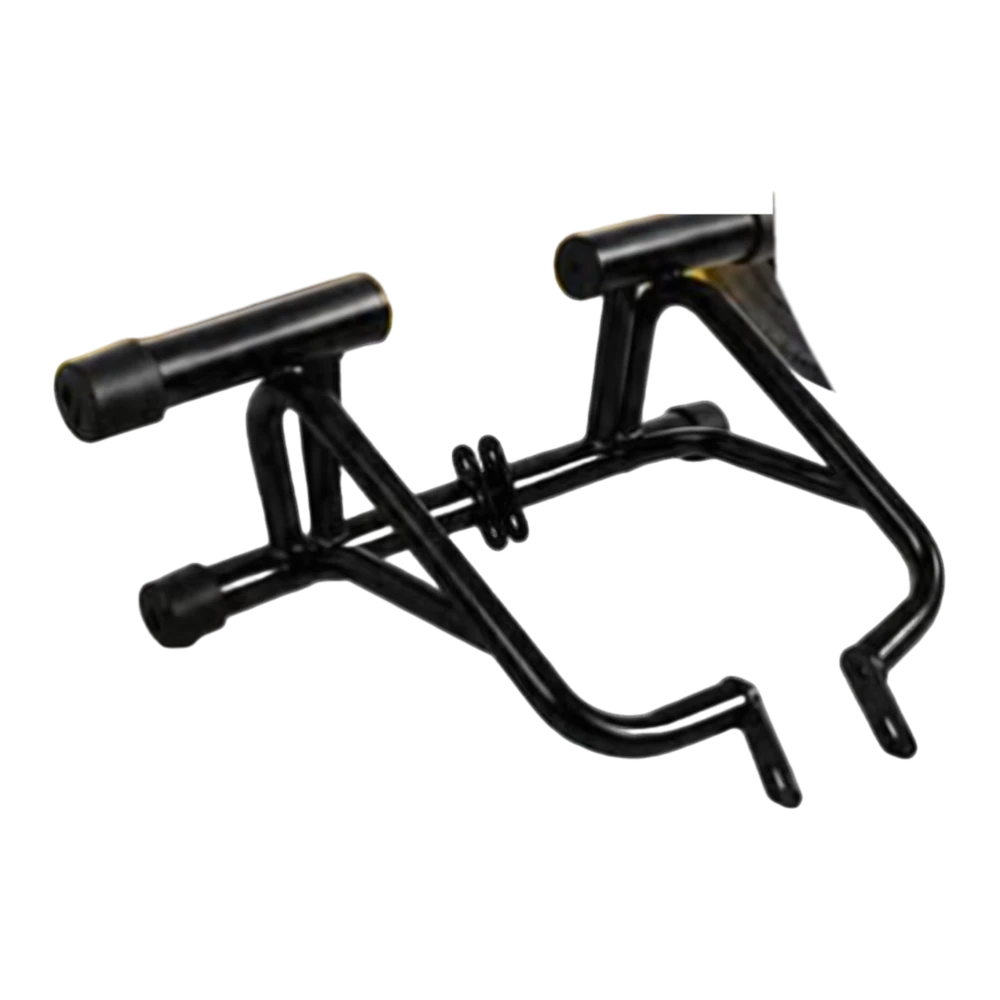
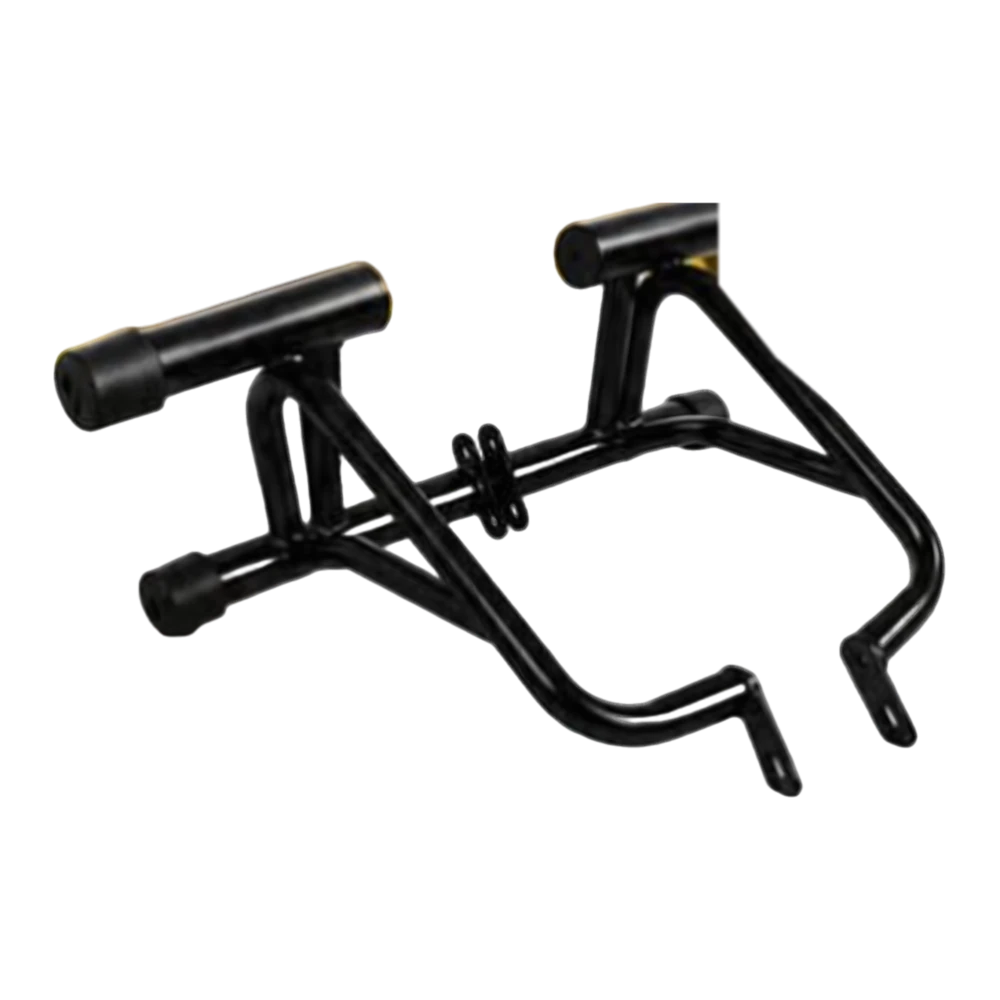
Matuto Motos: imagens finais da proposta, README e pendências
Gera os PNGs de todas as telas (loja 01–08 e painel 09–13, desktop e
mobile, estados extras e modais) e as imagens de apresentação (capa,
telas mobile e painel do lojista). Inclui os ajustes da revisão,
o README com instruções e a lista final de pendências.

Claude-Session: https://claude.ai/code/session_01JWdUiM91EVC8pcNemr4DTy

Changed region(s): [[0.031, 0.186, 0.961, 0.806], [0.527, 0.248, 0.558, 0.279]]

diff --git a/propostas/matuto-motos/prototipo/assets/css/loja.css b/propostas/matuto-motos/prototipo/assets/css/loja.css
@@ -234,6 +234,7 @@
 .cp-info { padding: 12px 14px 14px; display: flex; flex-direction: column; gap: 3px; flex: 1; }
 .cp-compat { font-size: 12px; color: var(--texto-3); font-weight: 550; display: flex; gap: 5px; align-items: center; white-space: nowrap; overflow: hidden; text-overflow: ellipsis; }
 .cp-compat .ic { width: 14px; height: 14px; flex: none; }
+.cp-compat > span { overflow: hidden; text-overflow: ellipsis; white-space: nowrap; min-width: 0; }
 .cp-nome { font-size: 14px; font-weight: 550; line-height: 1.36; display: -webkit-box; -webkit-line-clamp: 2; -webkit-box-orient: vertical; overflow: hidden; min-height: 38px; }
 .cp-aval { display: flex; align-items: center; gap: 5px; font-size: 12px; color: var(--texto-3); }
 .cp-preco { margin-top: 8px; display: flex; flex-direction: column; min-height: 47px; justify-content: flex-end; }
@@ -276,6 +277,9 @@
 .ret-loja { background: #fff; color: var(--texto); border-radius: 18px; overflow: hidden; box-shadow: 0 24px 50px -24px rgba(0, 0, 0, .8); }
 .ret-foto { position: relative; height: 230px; }
 .ret-foto img { width: 100%; height: 100%; object-fit: cover; object-position: 50% 28%; }
+.ret-foto.duo { display: grid; grid-template-columns: 1fr 1fr; grid-template-rows: minmax(0, 1fr); gap: 3px; height: 280px; background: #fff; overflow: hidden; }
+.ret-foto.duo img { min-height: 0; }
+.ret-foto.duo img { object-position: 50% 22%; }
 .ret-foto .selo-tag { position: absolute; left: 16px; bottom: 14px; background: var(--amarelo); color: var(--preto); height: 30px; font-size: 13px; }
 .ret-info { padding: 20px 22px 22px; display: flex; flex-direction: column; gap: 12px; }
 .ret-info h3 { font-family: var(--f-titulo); font-weight: 800; text-transform: uppercase; font-size: 26px; line-height: 1; }
@@ -311,7 +315,7 @@
 .of-botoes { display: flex; gap: 12px; margin-top: 6px; align-items: center; }
 .of-botoes small { font-size: 12.5px; max-width: 220px; line-height: 1.35; }
 .of-foto { position: relative; clip-path: polygon(14% 0, 100% 0, 100% 100%, 0 100%); min-height: 320px; }
-.of-foto img { position: absolute; inset: 0; width: 100%; height: 100%; object-fit: cover; object-position: 50% 40%; }
+.of-foto img { position: absolute; inset: 0; width: 100%; height: 100%; object-fit: cover; object-position: 50% 6%; }
 .of-foto .selo-tag { position: absolute; right: 18px; bottom: 18px; background: var(--preto); color: #fff; height: 32px; padding: 0 12px; font-size: 13px; }
 
 /* ---------- Instagram ---------- */
@@ -402,6 +406,7 @@
 .listagem { display: grid; grid-template-columns: 272px minmax(0, 1fr); gap: 26px; align-items: start; }
 .filtros { background: #fff; border: 1px solid var(--borda); border-radius: 16px; padding: 6px 18px 18px; position: sticky; top: 16px; }
 .filtros-topo { display: none; }
+.filtros-acoes { display: none; }
 .f-bloco { padding: 16px 0; border-bottom: 1px solid var(--borda); }
 .f-bloco:last-of-type { border-bottom: 0; }
 .f-tit { display: flex; justify-content: space-between; align-items: center; font-family: var(--f-titulo); font-weight: 800; font-size: 17px; text-transform: uppercase; letter-spacing: .03em; margin-bottom: 10px; }
@@ -793,6 +798,9 @@
 .cf-chips .ic { width: 18px; height: 18px; color: var(--amarelo); }
 .cf-foto { position: relative; min-height: 360px; }
 .cf-foto img { position: absolute; inset: 0; width: 100%; height: 100%; object-fit: cover; object-position: 50% 25%; }
+.cf-foto.duo { display: grid; grid-template-columns: 1fr 1fr; gap: 4px; background: var(--preto); }
+.cf-foto.duo > div:not(.cf-balao) { position: relative; overflow: hidden; }
+.cf-foto.duo > div:not(.cf-balao) img { position: absolute; inset: 0; width: 100%; height: 100%; object-fit: cover; object-position: 50% 15%; }
 .cf-foto::before { content: ''; position: absolute; inset: 0; background: linear-gradient(90deg, var(--preto) 0%, rgba(17, 17, 17, 0) 30%); z-index: 1; }
 .cf-balao { position: absolute; left: 0; bottom: 40px; z-index: 2; background: #fff; color: var(--texto); border-radius: 16px 16px 16px 4px; padding: 12px 16px; box-shadow: var(--sombra-forte); max-width: 270px; font-size: 13.5px; }
 .cf-balao b { display: flex; align-items: center; gap: 6px; font-size: 13px; color: var(--zap-escuro); }
@@ -989,6 +997,7 @@
   .passo p { margin-top: 4px; }
   .passo .ic { top: 16px; right: 14px; width: 26px; height: 26px; }
   .ret-foto { height: 200px; }
+  .ret-foto.duo { height: 230px; }
 
   .marcas { grid-template-columns: repeat(3, minmax(0, 1fr)); gap: 8px; }
   .marca { height: 70px; border-radius: 12px; }
@@ -1074,8 +1083,8 @@
   .pr-corpo { grid-template-columns: 1fr; }
   .pr-aviso { display: grid; grid-template-columns: auto 1fr; gap: 4px 8px; }
   .pr-aviso a { grid-column: 2; margin-left: 0; }
-  .serve { flex-wrap: wrap; gap: 6px 10px; }
-  .serve a { margin-left: 36px; width: 100%; }
+  .serve { display: grid; grid-template-columns: auto minmax(0, 1fr); gap: 4px 10px; align-items: start; }
+  .serve a { grid-column: 2; margin-left: 0; justify-self: start; }
   .p-confianca { grid-template-columns: 1fr; }
   .p-detalhes { grid-template-columns: 1fr; margin-top: 28px; gap: 16px; }
   .bloco { padding: 20px 18px; border-radius: 16px; }
@@ -1098,7 +1107,11 @@
   /* carrinho */
   .pagina-tit { padding: 8px 0 14px; flex-direction: column; align-items: flex-start; gap: 4px; }
   .pagina-tit h1 { font-size: 36px; }
-  .carrinho { grid-template-columns: 1fr; gap: 16px; }
+  .carrinho { grid-template-columns: minmax(0, 1fr); gap: 16px; }
+  .carrinho > div:first-child { display: contents; }
+  .carrinho .itens { order: 1; }
+  .carrinho .resumo { order: 2; }
+  .carrinho .cross { order: 3; margin-top: 8px; }
   .itens-cab { display: none; }
   .item { grid-template-columns: 84px minmax(0, 1fr); gap: 4px 12px; padding: 14px; align-items: start; }
   .item-prod { display: contents; }
@@ -1170,9 +1183,10 @@
   .tl.compacta { margin: 0 16px 16px; }
   .pd-itens { padding: 0 16px 16px; }
   .pd-itens .btn { width: 100%; margin-left: 0; margin-top: 6px; }
-  .lp-item { grid-template-columns: minmax(0, 1fr) auto; gap: 8px; padding: 14px 16px; }
+  .lp-item { grid-template-columns: minmax(0, 1fr) auto; gap: 6px 10px; padding: 14px 16px; }
   .lp-imgs { grid-column: 1 / -1; order: 3; }
-  .lp-item .lp-total { text-align: right; }
+  .lp-item .lp-total { grid-column: 1 / -1; order: 2; text-align: left; display: flex; flex-direction: column; }
+  .lp-item .lp-total b { font-size: 15px; }
   .lp-item .lp-seta { display: none; }
   .conta-duas { grid-template-columns: 1fr; }
   .favs { grid-template-columns: 1fr; }
@@ -1182,9 +1196,11 @@
   .cf-txt { padding: 28px 20px 24px; }
   .cf-txt h1 { font-size: 42px; }
   .cf-txt p { font-size: 15px; }
-  .cf-foto { height: 300px; }
+  .cf-foto { height: 300px; min-height: 0; }
   .cf-foto::before { background: linear-gradient(180deg, var(--preto) 0%, rgba(17, 17, 17, 0) 30%); }
-  .cf-balao { left: 16px; bottom: 32px; }
+  .cf-foto.duo > div:not(.cf-balao) { min-height: 0; }
+  .cf-balao { left: 16px; right: 16px; bottom: 30px; max-width: none; }
+  .cf-chips span { height: 34px; font-size: 13px; }
   .cf-passos { grid-template-columns: 1fr; gap: 10px; }
   .cf-duas { grid-template-columns: 1fr; }
   .faq details > div { padding: 0 16px 16px; }
@@ -1245,3 +1261,6 @@
 
 /* captura de página inteira: o botão do WhatsApp fica no fim, sem cobrir o texto do rodapé */
 html.captura .rod-base { padding-bottom: 104px; }
+
+/* estados abertos no celular: o botão flutuante do WhatsApp sai da frente */
+body.busca-aberta .zap-flutuante, body.menu-aberto .zap-flutuante, body.filtros-abertos .zap-flutuante { display: none; }

diff --git a/propostas/matuto-motos/prototipo/painel/produtos.html b/propostas/matuto-motos/prototipo/painel/produtos.html
@@ -94,21 +94,20 @@
     '<td><div class="acoes-lin"><a class="ic-btn" href="produto-editar.html" title="Editar">' + I('edit') + '</a><span class="ic-btn" title="Duplicar">' + I('copy') + '</span><span class="ic-btn" title="' + (p.status === 'ativo' ? 'Desativar' : 'Ativar') + '">' + I(p.status === 'ativo' ? 'eyeOff' : 'eye') + '</span></div></td></tr>').join('');
   document.getElementById('cards').innerHTML = lista.slice(0, 8).map((p) =>
     '<div class="cm"><div class="cm-topo">' + P.thumb(p) + '<div><b>' + p.nome.split(' — ')[0] + '</b><small>Cód. ' + p.cod + ' · ' + P.catDe(p.cat).nome + '</small></div><span class="ic-btn">' + I('dots') + '</span></div>' +
-    '<div class="cm-info"><div><small>Preço</small><b>' + P.fmt(P.valor(p)) + '</b></div><div><small>Disponível</small><b>' + p.disponivel + '</b>' + (p.reservado ? ' <span class="fraco" style="font-size:11px">+' + p.reservado + ' res.</span>' : '') + '</div><div><small>Status</small>' + (p.status === 'rascunho' ? '<b>Rascunho</b>' : p.estoque === 0 ? '<b style="color:var(--vermelho-escuro)">Sem estoque</b>' : p.situacao === 'baixo' ? '<b style="color:#8A4B00">Baixo</b>' : '<b style="color:var(--verde)">Ativo</b>') + '</div></div></div>').join('');
-  document.getElementById('pag-txt').textContent = 'Mostrando 1–15 de ' + M.produtos.length + ' produtos';
+    '<div class="cm-info"><div><small>Preço</small><b>' + P.fmt(P.valor(p)) + '</b></div><div><small>Disponível</small><b>' + p.disponivel + '</b>' + (p.reservado ? ' <span class="fraco" style="font-size:11px">+' + p.reservado + ' res.</span>' : '') + '</div><div><small>Status</small>' + (p.status === 'rascunho' ? '<b>Rascunho</b>' : p.estoque === 0 ? '<b style="color:var(--vermelho-escuro)">Zerado</b>' : p.situacao === 'baixo' ? '<b style="color:#8A4B00">Baixo</b>' : '<b style="color:var(--verde)">Ativo</b>') + '</div></div></div>').join('');
+  document.getElementById('pag-txt').innerHTML = 'Mostrando 1–<span class="so-desk">15</span><span class="so-mob">8</span> de ' + M.produtos.length + ' produtos';
 
   /* modal importar */
   document.getElementById('mi-ic').innerHTML = I('sheet');
   document.getElementById('mi-x').innerHTML = I('close');
   document.getElementById('mi-passos').innerHTML =
-    '<div class="passo-imp"><i>' + I('check') + '</i><div><b>Baixe o modelo</b>Planilha com as colunas certas</div></div>' +
+    '<div class="passo-imp"><i>' + I('check') + '</i><div><b>Baixe o modelo</b>Colunas já prontas</div></div>' +
     '<div class="passo-imp"><i>' + I('check') + '</i><div><b>Envie o arquivo</b>.xlsx ou .csv, até 2.000 linhas</div></div>' +
     '<div class="passo-imp atual"><i>3</i><div><b>Confira e importe</b>Veja o resumo antes de salvar</div></div>';
   document.getElementById('mi-arq').innerHTML = '<span class="xls">XLS</span><div style="flex:1"><b>produtos-matuto-novembro.xlsx</b><small>128 linhas · 46 KB · enviado agora</small></div><button class="btn btn-claro btn-pp" type="button">Trocar arquivo</button>';
   const prev = [
     ['2', 'RD-0108', 'Jogo de rodas liga leve Fan 160 — disco nas duas', 'R$ 799,00', '4', '<span class="st st-ok">Novo</span>'],
     ['3', 'PR-0401', 'Protetor de motor Titan 160', 'R$ 125,00', '+10', '<span class="st st-aguard">Atualizar</span>'],
-    ['4', 'TR-0207', 'Kit relação Fazer 250 aço 1045', 'R$ 89,90', '12', '<span class="st st-ok">Novo</span>'],
     ['5', 'IL-1102', 'Lâmpada pisca LED 12V (par)', 'R$ 14,90', '30', '<span class="st st-baixo">Sem foto</span>'],
     ['57', 'SP-0310', 'Amortecedor dianteiro Pop 110i', '—', '6', '<span class="st st-zero">Erro: preço vazio</span>'],
   ];

diff --git a/propostas/matuto-motos/prototipo/assets/css/painel.css b/propostas/matuto-motos/prototipo/assets/css/painel.css
@@ -268,7 +268,7 @@ body.painel { background: #F4F3EF; font-size: 14px; color: var(--texto); }
 .hist-cab .thumb { width: 40px; height: 40px; }
 
 /* modal */
-.modal-fundo { position: fixed; inset: 0; background: rgba(17, 17, 17, .55); z-index: 80; display: none; align-items: flex-start; justify-content: center; padding: 56px 20px; overflow: auto; }
+.modal-fundo { position: fixed; inset: 0; background: rgba(17, 17, 17, .55); z-index: 80; display: none; align-items: flex-start; justify-content: center; padding: 34px 20px; overflow: auto; }
 body.modal-aberto .modal-fundo { display: flex; }
 .modal { background: #fff; border-radius: 18px; width: 100%; max-width: 760px; box-shadow: 0 30px 80px -20px rgba(0, 0, 0, .5); overflow: hidden; }
 .modal-cab { display: flex; align-items: center; gap: 12px; padding: 18px 22px; border-bottom: 1px solid var(--borda); }
@@ -282,7 +282,7 @@ body.modal-aberto .modal-fundo { display: flex; }
 .modal-rodape .tot b { font-size: 20px; color: var(--texto); font-variant-numeric: tabular-nums; }
 .itens-ent .input { height: 38px; font-size: 13.5px; text-align: right; font-variant-numeric: tabular-nums; }
 .passos-imp { display: grid; grid-template-columns: repeat(3, 1fr); gap: 10px; }
-.passo-imp { display: flex; gap: 10px; align-items: center; padding: 12px; border-radius: 12px; border: 1px solid var(--borda); font-size: 13px; }
+.passo-imp { display: flex; gap: 10px; align-items: center; padding: 10px 12px; border-radius: 12px; border: 1px solid var(--borda); font-size: 13px; line-height: 1.35; }
 .passo-imp i { width: 28px; height: 28px; border-radius: 50%; background: var(--verde); color: #fff; display: flex; align-items: center; justify-content: center; font-style: normal; font-weight: 800; flex: none; }
 .passo-imp i .ic { width: 15px; height: 15px; stroke-width: 2.6; }
 .passo-imp.atual { border-color: var(--preto); box-shadow: 0 0 0 2px var(--amarelo); }
@@ -320,6 +320,7 @@ body.modal-aberto .modal-fundo { display: flex; }
   .tb-mobile .tbm-acoes span { width: 40px; height: 40px; border-radius: 10px; display: flex; align-items: center; justify-content: center; position: relative; }
   .tb-mobile .tbm-acoes .dot { position: absolute; top: 8px; right: 9px; width: 8px; height: 8px; border-radius: 50%; background: var(--vermelho); border: 2px solid var(--preto); }
   .conteudo { padding: 16px 14px 100px; gap: 14px; }
+  body:has(.fab-scan) .conteudo { padding-bottom: 156px; }
   .pg-topo { flex-direction: column; align-items: stretch; gap: 12px; }
   .pg-topo h1 { font-size: 30px; }
   .pg-acoes .btn { flex: 1; min-width: 0; padding: 0 12px; }
@@ -347,6 +348,7 @@ body.modal-aberto .modal-fundo { display: flex; }
   .cm-topo { display: flex; align-items: flex-start; gap: 12px; }
   .cm-topo .thumb { width: 56px; height: 56px; }
   .cm-topo > div { flex: 1; min-width: 0; }
+  .cm-topo > .thumbs { flex: none; }
   .cm-topo b { display: block; font-weight: 650; line-height: 1.3; }
   .cm-topo small { color: var(--texto-3); font-size: 12px; }
   .cm-info { display: grid; grid-template-columns: repeat(3, minmax(0, 1fr)); gap: 8px; }

diff --git a/propostas/matuto-motos/prototipo/assets/js/dados.js b/propostas/matuto-motos/prototipo/assets/js/dados.js
@@ -106,7 +106,7 @@
     p({ id: 'kit-riffel', cat: 'transmissao', marca: 'Riffel', nome: 'Kit relação Riffel Titanium aço 1045 — coroa, pinhão e corrente',
       cod: 'TR-0203', codFab: 'RIFFEL-TITANIUM', ean: '789820420203', preco: 79.00, promo: 69.90,
       img: 'produtos/kit-riffel-caixa.webp', galeria: ['produtos/kit-riffel-caixa.webp', 'produtos/kit-riffel.webp', 'artes/arte-P1-20.jpg'],
-      motos: [['Honda', 'CG 160 Titan / Fan', '2016 a 2026'], ['Honda', 'NXR 160 Bros', '2015 a 2025'], ['Yamaha', 'Factor 150', '2016 a 2025'], ['Yamaha', 'Fazer 150', '2014 a 2022']], compat: 'Vários modelos — escolha a moto',
+      motos: [['Honda', 'CG 160 Titan / Fan', '2016 a 2026'], ['Honda', 'NXR 160 Bros', '2015 a 2025'], ['Yamaha', 'Factor 150', '2016 a 2025'], ['Yamaha', 'Fazer 150', '2014 a 2022']], compat: 'Titan, Bros, Factor e Fazer',
       estoque: 12, reservado: 0, minimo: 6, local: 'C1-3', custo: 44, atacado: 62.9, vendidos: 98, aval: 4.9, navals: 41, fonte: 'P1-20, P1-44' }),
     p({ id: 'kit-relacao-bros-xre', cat: 'transmissao', nome: 'Kit relação Bros 160 / XRE 190 aço 1045',
       cod: 'TR-0202', codFab: 'KR-B160-1045', ean: '789820420202', preco: 75.00, promo: 54.90,
@@ -248,7 +248,7 @@
       img: 'produtos/capacete-preto.webp', galeria: ['produtos/capacete-preto.webp', 'videos/story-capacete.jpg'],
       cores: [['Preto', 'capacete-preto', '#111'], ['Amarelo', 'capacete-amarelo', '#F4C400'], ['Branco', 'capacete-branco', '#F1F1F1'], ['Azul', 'capacete-azul', '#1D3FBF'],
         ['Grafite', 'capacete-grafite', '#3A3A3A'], ['Prata', 'capacete-prata', '#B9BCC0'], ['Vermelho', 'capacete-vermelho', '#C8141B'], ['Rosa', 'capacete-rosa', '#E0218A']],
-      motos: [], compat: 'Tamanhos 56 a 60 · certificado INMETRO',
+      motos: [], compat: 'Tamanhos 56 a 60 · INMETRO',
       estoque: 16, reservado: 1, minimo: 6, local: 'J1-1', custo: 54, atacado: 89, vendidos: 95, aval: 4.8, navals: 27, fonte: 'P1-09' }),
 
     /* ---------------- Exemplos sem foto (outras categorias) ---------------- */

diff --git a/propostas/matuto-motos/prototipo/assets/js/loja.js b/propostas/matuto-motos/prototipo/assets/js/loja.js
@@ -34,7 +34,7 @@
   /* ---------- cabeçalho ---------- */
   function buscaHTML(id) {
     return '<form class="busca-form" role="search" action="' + BASE + 'categoria.html">' +
-      '<input id="' + id + '" name="q" type="search" autocomplete="off" placeholder="Busque por peça, código ou moto (ex.: protetor Titan 160)" aria-label="Buscar">' +
+      '<input id="' + id + '" name="q" type="search" autocomplete="off" placeholder="Busque por peça, código ou moto" aria-label="Buscar">' +
       '<button type="submit" aria-label="Buscar">' + I('search') + '</button></form>' +
       '<div class="sugestoes" role="listbox"></div>';
   }
@@ -153,7 +153,7 @@
       '</a>' +
       '<button class="cp-fav' + (M.cliente.favoritos.indexOf(p.id) >= 0 ? ' on' : '') + '" type="button" aria-label="Favoritar">' + I('heart') + '</button>' +
       '<div class="cp-info">' +
-        (p.compat ? '<span class="cp-compat">' + I('moto') + p.compat + '</span>' : '') +
+        (p.compat ? '<span class="cp-compat">' + I('moto') + '<span>' + p.compat + '</span></span>' : '') +
         '<a class="cp-nome" href="' + BASE + 'produto.html?id=' + p.id + '">' + p.nome + '</a>' +
         (p.aval ? '<span class="cp-aval">' + estrelas(p.aval) + nota(p.aval) + ' (' + p.navals + ')</span>' : '') +
         '<div class="cp-preco">' + (p.promo ? '<s>' + fmt(p.preco) + '</s>' : '') + '<b>' + fmt(v) + '</b></div>' +

diff --git a/propostas/matuto-motos/scripts/apresentacao/capa.html b/propostas/matuto-motos/scripts/apresentacao/capa.html
@@ -7,7 +7,7 @@
 <link rel="stylesheet" href="molduras.css">
 <style>
   .palco { width: 1920px; height: 1080px; }
-  .texto { position: absolute; left: 110px; top: 150px; width: 600px; display: flex; flex-direction: column; gap: 26px; }
+  .texto { position: absolute; left: 110px; top: 104px; width: 600px; display: flex; flex-direction: column; gap: 24px; }
   .texto .selo { width: 210px; }
   .kick { font-family: var(--f-titulo); font-weight: 700; letter-spacing: .18em; text-transform: uppercase; color: #FCDD08; font-size: 20px; display: flex; align-items: center; gap: 12px; }
   .kick::before { content: ''; width: 34px; height: 5px; background: #FCDD08; transform: skewX(-20deg); }

diff --git a/propostas/matuto-motos/prototipo/como-funciona.html b/propostas/matuto-motos/prototipo/como-funciona.html
@@ -20,8 +20,9 @@
       <p>Na Matuto Motos não tem frete nem espera de entrega. Você escolhe as peças, paga pelo site e a gente separa tudo. Não precisa ficar avechado: sua peça te espera no balcão.</p>
       <div class="cf-chips" id="cf-chips"></div>
     </div>
-    <div class="cf-foto">
-      <img src="assets/img/loja/dono-na-loja.jpg" alt="O Matuto dentro da loja">
+    <div class="cf-foto duo">
+      <div><img src="assets/img/loja/balcao-pneus.jpg" alt="Pedido separado no balcão da loja"></div>
+      <div><img src="assets/img/loja/dono-na-loja.jpg" alt="O Matuto dentro da loja"></div>
       <div class="cf-balao" id="cf-balao"></div>
     </div>
   </section>

diff --git a/propostas/matuto-motos/prototipo/index.html b/propostas/matuto-motos/prototipo/index.html
@@ -112,7 +112,7 @@
         <div class="passos" id="passos"></div>
       </div>
       <div class="ret-loja">
-        <div class="ret-foto"><img src="assets/img/loja/dono-na-loja.jpg" alt="O Matuto dentro da loja"><span class="selo-tag">Te esperamos na loja</span></div>
+        <div class="ret-foto duo"><img src="assets/img/loja/balcao-pneus.jpg" alt="Balcão da loja com pneus e peças"><img src="assets/img/loja/dono-na-loja.jpg" alt="O Matuto dentro da loja"><span class="selo-tag">Te esperamos na loja</span></div>
         <div class="ret-info" id="ret-info"></div>
       </div>
     </div>

diff --git a/propostas/matuto-motos/scripts/apresentacao/telas-mobile.html b/propostas/matuto-motos/scripts/apresentacao/telas-mobile.html
@@ -6,7 +6,7 @@
 <link rel="stylesheet" href="../../prototipo/assets/css/base.css">
 <link rel="stylesheet" href="molduras.css">
 <style>
-  .palco { width: 2400px; height: 1160px; }
+  .palco { width: 2400px; height: 1090px; }
   .topo { position: absolute; left: 90px; right: 90px; top: 60px; display: flex; align-items: center; gap: 22px; }
   .topo .selo { width: 96px; }
   .topo h1 { margin: 0; font-family: var(--f-titulo); font-weight: 800; font-style: italic; text-transform: uppercase; font-size: 60px; line-height: 1; }

diff --git a/propostas/matuto-motos/prototipo/produto.html b/propostas/matuto-motos/prototipo/produto.html
@@ -47,7 +47,7 @@
 
   <section class="sec">
     <div class="sec-topo"><div><span class="kicker">Aproveite a viagem até o balcão</span><h2 class="titulo">Quem levou, levou também</h2></div></div>
-    <div class="grade" id="relacionados"></div>
+    <div class="grade grade-home" id="relacionados"></div>
   </section>
 </div></main>
 

diff --git a/propostas/matuto-motos/scripts/preparar_imagens.py b/propostas/matuto-motos/scripts/preparar_imagens.py
@@ -71,8 +71,8 @@ PRODUTOS: dict[str, dict] = {
     # Protetores
     "protetor-titan160": dict(foto=5, caixa=(158, 383, 466, 602),
                               apagar=[(300, 368, 404, 399)],
-                              apagar_poli=[[(404, 383), (468, 383), (468, 472), (437, 468), (425, 459),
-                                            (415, 441), (405, 420)]]),
+                              apagar_poli=[[(386, 398), (386, 426), (405, 450), (428, 470), (440, 481),
+                                            (470, 481), (470, 383), (404, 383), (404, 398)]]),
     "protetor-bros160": dict(foto=6, caixa=(126, 338, 470, 568)),
     "protetor-tubular": dict(foto=4, caixa=(98, 383, 458, 700)),
     "protetor-carenagem-broly": dict(foto=12, caixa=(244, 0, 506, 302)),

diff --git a/propostas/matuto-motos/PENDENCIAS.md b/propostas/matuto-motos/PENDENCIAS.md
@@ -3,8 +3,9 @@
 Tudo o que no protótipo é placeholder, exemplo ou suposição e precisa de confirmação do cliente
 antes de publicar.
 
-> Versão inicial, escrita depois da análise das 46 fotos (25/11/2026). Será completada durante a
-> construção das telas.
+> Atualizado ao fim da construção do protótipo (26/11/2026). Os números entre colchetes, como
+> `[CNPJ]`, aparecem assim nas telas. Valores marcados como "exemplo" foram criados só para o
+> protótipo.
 
 ## 1. Dados da loja
 
@@ -59,8 +60,11 @@ antes de publicar.
 | 22 | Fotos da fachada, do balcão de retirada e da equipe | Não há nas fotos |
 | 23 | Foto do dono em boa resolução e autorização de uso da imagem; confirmar que é ele quem aparece nos stories (P1-07, P1-08, P1-09, P1-42) | Recortes dos stories |
 | 24 | Fotos de produto em alta resolução, de preferência com fundo branco | Recortes das artes do Instagram |
-| 25 | Usar ou não o bordão "Sou o mais barato de Recife!" no site | — |
-| 26 | Confirmar as marcas que a loja revende (Mobil, Motul, Riffel, Cobreq, Dabroy aparecem nas fotos) | Faixa de marcas com essas |
+| 25 | Usar ou não o bordão "Sou o mais barato de Recife!" no site | Não aparece nos textos do site, só dentro das artes usadas nas galerias de produto |
+| 26 | Confirmar as marcas que a loja revende (Mobil, Motul, Riffel, Cobreq, Dabroy aparecem nas fotos; NGK foi acrescentada como exemplo) | Faixa "Marcas que a gente trabalha" com os nomes em texto. Pedir autorização ou usar os logos oficiais |
+| 26a | Links reais dos vídeos para "Visto nos vídeos do Matuto" | As capas são recortes dos stories (P1-04 a P1-09, P1-24); os botões ainda não levam a vídeos |
+| 26b | Foto de perfil do dono em boa resolução para a seção do Instagram | Usamos o selo como avatar |
+| 26c | Domínio do site e textos institucionais (Sobre o Matuto: história, ano de fundação) | "matutomotos.com.br" aparece só na moldura da apresentação; o texto do Sobre é provisório |
 
 ## 7. Preços e produtos a confirmar
 
@@ -77,13 +81,24 @@ antes de publicar.
 
 | # | Item |
 |---|---|
-| 33 | Produtos das categorias sem foto nas imagens (motor, freios, elétrica, iluminação, carenagens, cabos e comandos, acessórios): nomes e preços de exemplo |
-| 34 | Compatibilidades (motos e anos) além das que aparecem nas artes |
-| 35 | Avaliações e depoimentos: nenhum real nas fotos, todos são exemplos |
-| 36 | Painel do lojista: códigos internos, códigos de barras, estoques, mínimos, locais na prateleira, custos e margens, pedidos, clientes, códigos de retirada, movimentações e vendas do dia |
+| 33 | Produtos criados como exemplo (não estão nas fotos), com nome e preço inventados: pastilha de freio Cobreq, óleo Motul 5000 20W-50, filtro de ar CG 160, vela NGK, bateria 12V 5Ah, lâmpada H4, cabo e manete de embreagem, carenagem lateral Titan 160, kit pistão Titan 160 e baú 41 L. O coxim da coroa e o patins de freio aparecem no combo da P1-44, mas o preço avulso é exemplo. Onze deles aparecem sem foto ("Foto em breve") |
+| 34 | Compatibilidades e anos que não estão nas artes (ex.: Titan 160 "2016 a 2026", Pop 110i "2016 a 2025") e medidas dos pneus (110/90-17 e 90/90-19) |
+| 35 | Avaliações e números de venda: nenhum real nas fotos. São exemplos as notas e quantidades de avaliações nos cards, os "vendidos" e os três depoimentos da página do produto (Rafael S., Joseane F., Edvaldo M.) |
+| 36 | Painel do lojista: códigos internos, códigos do fabricante, códigos de barras (fictícios, começam com 7898204), estoques, mínimos, locais na prateleira, custos, margens e preço de atacado, pedidos, clientes e oficinas, códigos de retirada, movimentações, fornecedor e notas fiscais, funcionário "Josué" e vendas do dia |
+| 36a | Cliente de exemplo da loja: Carlos Eduardo Lima, a garagem dele, favoritos, pedidos MT-10482, MT-10391, MT-10220, MT-10105 e o código 7K4-Q29 (o QR code é ilustrativo) |
+| 36b | Textos de produto: a descrição do protetor Titan 160 veio da arte (P1-05). "Itens inclusos: protetor + kit de fixação" e a garantia de "90 dias contra defeito de fabricação" são suposições |
+| 36c | Políticas exibidas como exemplo: troca em até 7 dias no balcão, cupom de desconto, prazo de 30 minutos para pagar o Pix, reserva de 1 dia útil no "pagar na retirada" |
 
 ## 9. Proposta
 
 | # | Item | No protótipo |
 |---|---|---|
 | 37 | Assinatura da proposta (seu nome ou empresa) | `[SEU NOME / EMPRESA]` |
+
+## 10. Para a versão real (fora do protótipo)
+
+| # | Item |
+|---|---|
+| 38 | Plataforma e hospedagem (loja própria ou plataforma pronta), meio de pagamento (Pix e cartão), emissão de nota fiscal |
+| 39 | Envio automático do aviso "pedido pronto" e do "avise-me quando chegar" pelo WhatsApp (API oficial ou ferramenta de terceiros) |
+| 40 | Leitura de código de barras e de QR code pela câmera no painel, importação de planilha e controle de acesso dos funcionários |
